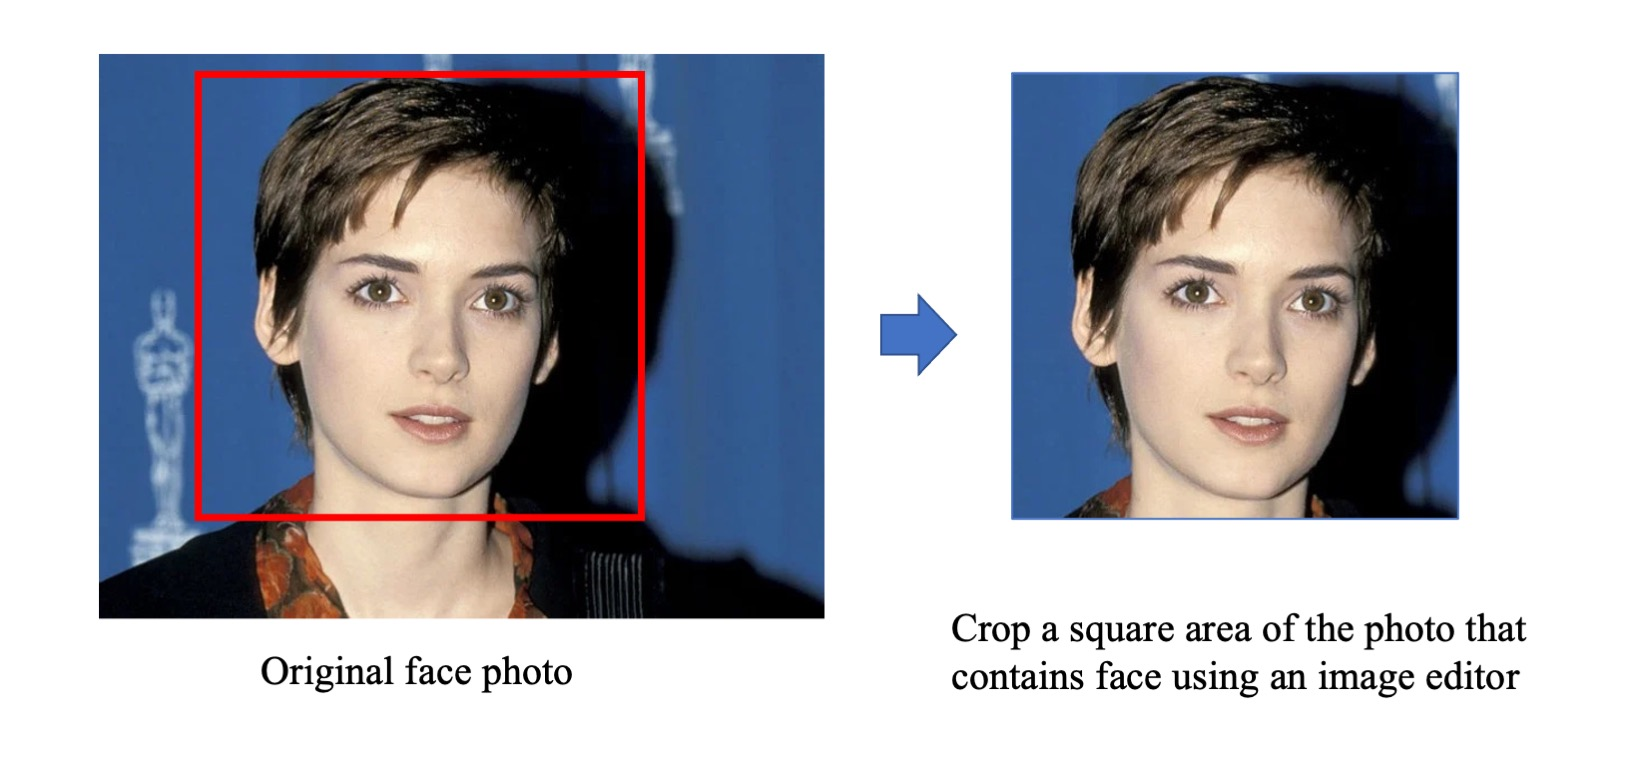
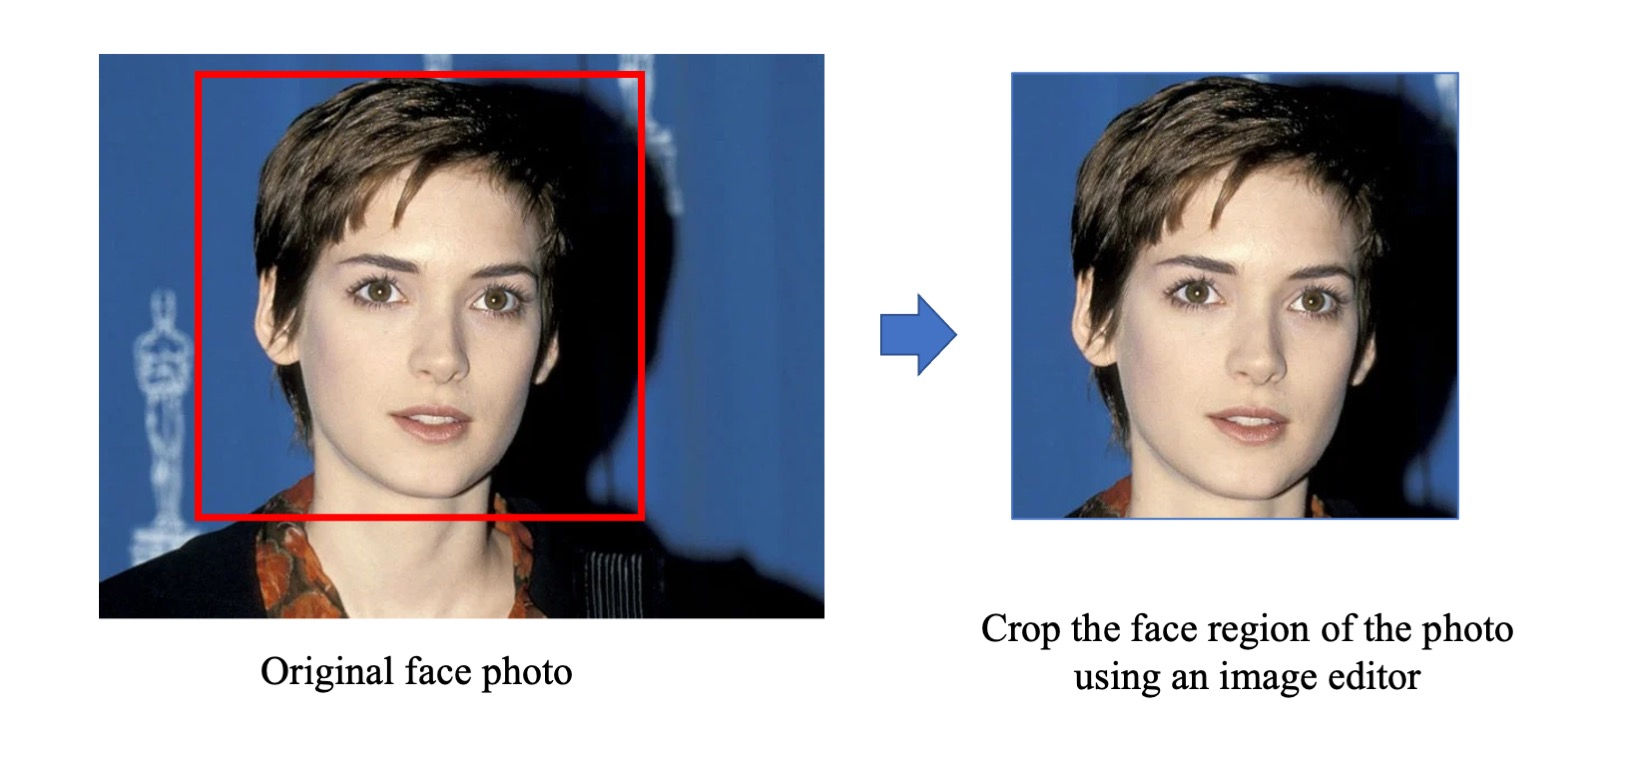
enable non-square input, update readme

Changed region(s): [[0.5581, 0.7879, 0.9301, 0.9091]]

diff --git a/util/visualizer.py b/util/visualizer.py
@@ -5,9 +5,7 @@ import ntpath
 import time
 from . import util, html
 from subprocess import Popen, PIPE
-from scipy.misc import imresize
-import pdb
-from scipy.io import savemat
+from PIL import Image
 
 if sys.version_info[0] == 2:
     VisdomExceptionBase = Exception
@@ -15,7 +13,7 @@ else:
     VisdomExceptionBase = ConnectionError
 
 
-def save_images(webpage, visuals, image_path, aspect_ratio=1.0, width=256):
+def save_images(webpage, visuals, image_path, aspect_ratio=1.0, width=256, W=None, H=None):
     """Save images to the disk.
 
     Parameters:
@@ -37,16 +35,16 @@ def save_images(webpage, visuals, image_path, aspect_ratio=1.0, width=256):
     for label, im_data in visuals.items():
         ## tensor to im
         im = util.tensor2im(im_data)
-        #im,imo = util.tensor2im(im_data)
-        #matname = os.path.join(image_dir, '%s_%s.mat' % (name, label))
-        #savemat(matname,{'imo':imo})
         image_name = '%s_%s.png' % (name, label)
         save_path = os.path.join(image_dir, image_name)
         h, w, _ = im.shape
-        if aspect_ratio > 1.0:
-            im = imresize(im, (h, int(w * aspect_ratio)), interp='bicubic')
-        if aspect_ratio < 1.0:
-            im = imresize(im, (int(h / aspect_ratio), w), interp='bicubic')
+        if W is not None and H is not None and (W != w or H != h):
+            im = np.array(Image.fromarray(im).resize((W, H), Image.BICUBIC))
+        else:
+            if aspect_ratio > 1.0:
+                im = np.array(Image.fromarray(im).resize((int(w * aspect_ratio), h), Image.BICUBIC))
+            if aspect_ratio < 1.0:
+                im = np.array(Image.fromarray(im).resize((w, int(h / aspect_ratio)), Image.BICUBIC))
         util.save_image(im, save_path)
 
         ims.append(image_name)
@@ -133,7 +131,6 @@ class Visualizer():
                 for label, image in visuals.items():
                     image_numpy = util.tensor2im(image)
                     label_html_row += '<td>%s</td>' % label
-                    #pdb.set_trace()
                     images.append(image_numpy.transpose([2, 0, 1]))
                     idx += 1
                     if idx % ncols == 0:
@@ -203,7 +200,6 @@ class Visualizer():
         self.plot_data['Y'].append([losses[k] for k in self.plot_data['legend']])
         #X = np.stack([np.array(self.plot_data['X'])] * len(self.plot_data['legend']), 1)
         #Y = np.array(self.plot_data['Y'])
-        #pdb.set_trace()
         try:
             self.vis.line(
                 X=np.stack([np.array(self.plot_data['X'])] * len(self.plot_data['legend']), 1),

diff --git a/test.py b/test.py
@@ -63,5 +63,5 @@ if __name__ == '__main__':
         img_path = model.get_image_paths()     # get image paths
         if i % 5 == 0:  # save images to an HTML file
             print('processing (%04d)-th image... %s' % (i, img_path))
-        save_images(webpage, visuals, img_path, aspect_ratio=opt.aspect_ratio, width=opt.display_winsize)
+        save_images(webpage, visuals, img_path, aspect_ratio=opt.aspect_ratio, width=opt.display_winsize, W=opt.W, H=opt.H)
     webpage.save()  # save the HTML

diff --git a/data/single_dataset.py b/data/single_dataset.py
@@ -37,6 +37,7 @@ class SingleDataset(BaseDataset):
         """
         A_path = self.A_paths[index]
         A_img = Image.open(A_path).convert('RGB')
+        self.opt.W, self.opt.H = A_img.size
         transform_params_A = get_params(self.opt, A_img.size)
         A = get_transform(self.opt, transform_params_A, grayscale=(self.input_nc == 1))(A_img)
         item = {'A': A, 'A_paths': A_path}

diff --git a/readme.md b/readme.md
@@ -8,7 +8,7 @@ This project generates artistic portrait drawings from face photos using a GAN-b
 
 ## Our Proposed Framework
  
-<img src = 'imgs/architecture.png'>
+<img src = 'imgs/architecture.jpg'>
 
 ## Sample Results
 From left to right: input, output(style1), output(style2), output(style3)
@@ -34,7 +34,7 @@ If you use this code for your research, please cite our paper.
 
 
 ## Installation
-- Install PyTorch 1.1.0 and torchvision from http://pytorch.org and other dependencies (e.g., [visdom](https://github.com/facebookresearch/visdom) and [dominate](https://github.com/Knio/dominate)). You can install all the dependencies by
+- To install the dependencies, run
 ```bash
 pip install -r requirements.txt
 ```
@@ -55,7 +55,7 @@ The result images are saved in `./results/pretrained/test_200/images3styles`,
 where `real`, `fake1`, `fake2`, `fake3` correspond to input face photo, style1 drawing, style2 drawing, style3 drawing respectively.
 
 <img src = 'imgs/how_to_crop.jpg'>
-- 3. To test on your own photos, the photos need to be square (since the program will load it and resized as 512x512). You can use an image editor to crop a square area of your photo that contains face (or use an optional preprocess [here](preprocess/readme.md)). Then specify the folder that contains test photos using `--dataroot`, specify save folder name using `--savefolder` and run the above command again:
+- 3. To test on your own photos: First use an image editor to crop the face region of your photo (or use an optional preprocess [here](preprocess/readme.md)). Then specify the folder that contains test photos using `--dataroot`, specify save folder name using `--savefolder` and run the above command again:
 
 ``` bash
 # with GPU
@@ -67,6 +67,8 @@ python test_seq_style.py --gpu -1 --dataroot ./imgs/test1 --savefolder 3styles_t
 ```
 The test results will be saved to a html file here: `./results/pretrained/test_200/index[save_folder_name].html`.
 The result images are saved in `./results/pretrained/test_200/images[save_folder_name]`.
+An example html screenshot is shown below:
+<img src = 'imgs/result_html.jpg'>
 
 You can contact email yr16@mails.tsinghua.edu.cn for any questions.
 
